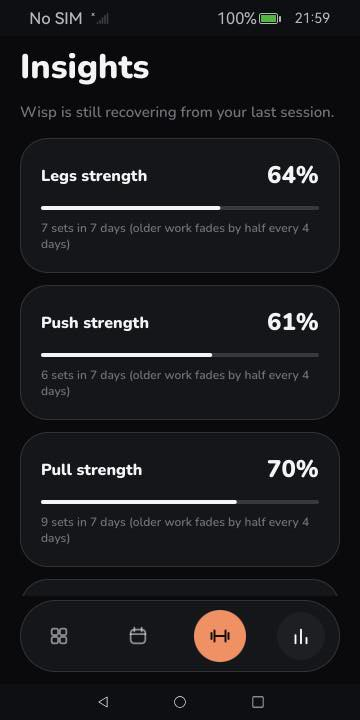
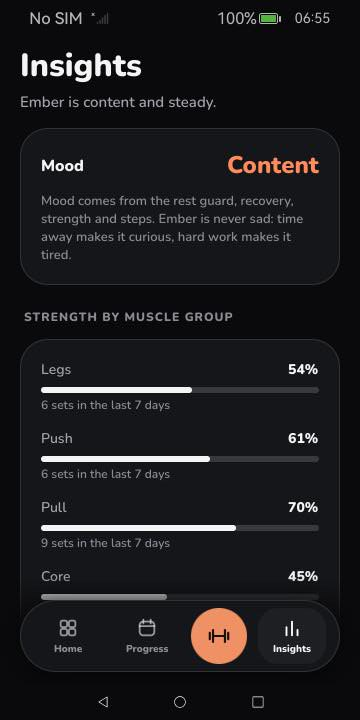
Submission media for 1.3.0: video, deck and form answers
Demo video and presentation rebuilt from current emulator captures (setup with BMI,
loads and records, body weight, collection, 74 tests); repository link filled in.

diff --git a/submission/make_video.py b/submission/make_video.py
@@ -133,24 +133,32 @@ SCENES = [
          say='Meet Wisp Gym. A creature that grows from your real training.'),
     dict(kind='phone', head='Logging reps by hand is broken', sub='Typing in the middle of a set. Streaks that punish a missed day. Wisp Gym flips both.', shot=S('home_curious.jpg'), badge=False, min=6.0,
          say='Most training apps make you log reps by hand, and punish you with streaks. Wisp Gym works the other way: your phone does the counting, and rest is part of the game.'),
-    dict(kind='phone', head='Meet Wisp', sub='Every muscle group you train grows a part of it. Its mood comes from recovery and daily movement.', shot=S('home_thriving.jpg'), min=6.0,
-         say='Wisp lives on your phone. Every muscle group you train grows a part of it, and its mood comes from recovery and daily movement.'),
+    dict(kind='phone', head='Set up in a minute', sub='Pick a starter creature, set your goals, and add height and weight for BMI. Everything stays on the phone.', frames=[S('onb_creature.jpg'), S('onb_body.jpg')], min=7.0,
+         say='Setup takes a minute. Pick your creature, set your goals, and add your height and weight for B M I. It all stays on the phone.'),
+    dict(kind='phone', head='It lives on your training', sub='Every muscle group you train grows a part of it. Its mood comes from recovery and daily movement.', shot=S('home_pumped.jpg'), min=6.0,
+         say='Your creature lives on your phone. Every muscle group you train grows a part of it, and its mood comes from recovery and daily movement.'),
     dict(kind='phone', head='Reps counted from motion alone', sub='Phone in your pocket, any orientation. Walking and sensor noise are filtered out.', frames=SET[:8], min=9.0,
          say='Put the phone in your pocket and start a set. Reps are counted from motion alone, whatever the orientation of the phone. Walking and sensor noise are filtered out.'),
     dict(kind='phone', head='It tells you when to stop', sub='When reps slow down and lose drive, the ring turns orange and Wisp says: rack it. The numbers are on screen.', frames=SET[8:], min=8.0,
          say='As reps slow down and lose drive, the ring fills, and Wisp tells you to rack it, with the numbers to back it up.'),
-    dict(kind='phone', head='Rest is part of the game', sub='Train too often and Wisp asks for a rest day. It never dies and never loses progress.', shot=S('home_rest.jpg'), min=6.0,
-         say='Train too often, and Wisp asks for a rest day. It never dies, and never loses progress.'),
+    dict(kind='phone', head='Loads, volume and records', sub='Log the weight per exercise. The summary shows volume, new personal records and what grew.', frames=[S('load.jpg'), S('summary.jpg')], min=7.0,
+         say='Log the load for each exercise. The summary shows your volume, new personal records, and what grew.'),
+    dict(kind='phone', head='Body weight and BMI', sub='Log weigh-ins, see the trend against your goal, and a BMI gauge with a healthy range.', frames=[S('body.jpg'), S('body_bmi.jpg')], min=7.0,
+         say='Track your body weight with a chart, a goal, and a B M I gauge with your healthy range.'),
+    dict(kind='phone', head='Rest is part of the game', sub='A coach times your rest. Train too often and your creature asks for a rest day. It never dies.', shot=S('coach_rest.jpg'), min=6.0,
+         say='A coach times your rest. Train too often, and your creature asks for a rest day. It never dies, and never loses progress.'),
+    dict(kind='phone', head='Six creatures, fourteen badges', sub='Three starters, three more hatch from real milestones. Eleven expressions each.', shot=S('collection.jpg'), min=6.0,
+         say='Three starters, and three more creatures hatch from real milestones, with fourteen badges to earn.'),
     dict(kind='phone', head='Everything is explainable', sub='Every value comes from your sessions, computed on the phone. No account. No cloud. No AI model.', shot=S('insights.jpg'), min=6.0,
          say='Everything is explainable. Every value comes from your real sessions, computed on the phone.'),
     dict(kind='phone', head='Two weeks, one creature', sub='A simulated fortnight, clearly labelled. Each muscle group grows its own part.', frames=EVO[:5] + [EVO[-1]], min=7.0,
          say='Over two weeks, your training shapes it. This is a simulated fortnight, clearly labelled.'),
-    dict(kind='phone', head='On your home screen', sub='A service widget shows Wisp and your status without opening the app.', shot=S('widget.jpg'), min=5.0,
-         say='A home screen widget shows it without opening the app.'),
+    dict(kind='phone', head='On your home screen', sub='Two service widgets show your creature and status without opening the app.', shot=S('widget.jpg'), min=5.0,
+         say='Two home screen widgets show it without opening the app.'),
     dict(kind='list', head='Built natively for OpenHarmony', min=8.0,
-         items=[('ArkTS + ArkUI', 'API 20 minimum, compiled on API 23'), ('Accelerometer + pedometer', 'SensorServiceKit'), ('Service widget', 'FormExtensionAbility'), ('Local only', 'Preferences, no network permission'),
-                ('22 unit tests', 'incl. 300 randomised sweeps'), ('Runs on OpenHarmony 6.1', 'emulator-verified build')],
-         say='Native ArkTS and ArkUI for OpenHarmony, API twenty and up. Accelerometer, pedometer, service widgets and local storage. Twenty-two unit tests, and it runs on the OpenHarmony six point one emulator.'),
+         items=[('ArkTS + ArkUI', 'API 20 minimum, compiled on API 23'), ('Accelerometer + pedometer', 'SensorServiceKit'), ('Service widgets', 'FormExtensionAbility, 2x2 and 2x4'), ('Local only', 'Preferences, no network permission'),
+                ('74 unit tests', 'incl. 300 randomised sweeps'), ('Runs on OpenHarmony 6.1', 'emulator-verified build')],
+         say='Native ArkTS and ArkUI for OpenHarmony, API twenty and up. Accelerometer, pedometer, service widgets and local storage. Seventy-four unit tests, and it runs on the OpenHarmony six point one emulator.'),
     dict(kind='close', head='Wisp Gym', sub='No cloud. No account. Your data stays on your phone.', min=4.0,
          say='Wisp Gym. Built for HackYeah twenty twenty-six. No cloud, no account, and your data stays on your phone.'),
 ]

diff --git a/submission/make_deck.py b/submission/make_deck.py
@@ -105,12 +105,20 @@ footer(s, n)
 # 3 --- solution
 s = slide(); n += 1
 title(s, 'Your training, made visible', w=7.4)
-phone(s, A('home_thriving.jpg'), 8.6, 1.0, h=5.7)
+phone(s, A('home_pumped.jpg'), 8.6, 1.0, h=5.7)
 bullets(s, 0.7, 2.0, 7.4, [
     ('Reps counted by the phone', 'Accelerometer only, any orientation in the pocket.'),
     ('Knows when to stop', 'Tempo and drive loss trigger a "rack it" cue, with the numbers.'),
     ('Rest is part of the game', 'Over-training makes Wisp ask for a rest day. It never dies.'),
     ('Explainable and private', 'Every value is traceable. Everything stays on the phone.')], size=20, gap=1.15)
+footer(s, n)
+
+# 3b --- new in 1.3
+s = slide(); n += 1
+title(s, 'A complete training companion', 'Setup with BMI, loads and records, body weight, a collection to grow.')
+for i, (f, cap) in enumerate([('onb_body.jpg', 'First-run setup'), ('load.jpg', 'Loads per exercise'), ('body_bmi.jpg', 'Weight goal + BMI'), ('collection.jpg', '6 creatures, 14 badges')]):
+    phone(s, A(f), 0.95 + i * 3.1, 2.25, h=4.3)
+    text(s, 0.95 + i * 3.1, 6.62, 2.15, 0.3, cap, size=13, color=DIM, align=PP_ALIGN.CENTER)
 footer(s, n)
 
 # 4 --- how it works
@@ -152,7 +160,7 @@ footer(s, n)
 s = slide(); n += 1
 title(s, 'What it uses from the platform')
 rows = [('Accelerometer', 'SensorServiceKit', 'live rep detection'), ('Pedometer', 'SensorServiceKit + ACTIVITY_MOTION', 'daily movement for Wisp'),
-        ('Service widget', 'FormExtensionAbility, formProvider', 'creature + status on the home screen'), ('Vibrator', 'SensorServiceKit', 'stop cue, end of rest'),
+        ('Service widgets', 'FormExtensionAbility, formProvider', '2x2 and 2x4 creature + status'), ('Vibrator', 'SensorServiceKit', 'stop cue, end of rest'),
         ('Notifications', 'NotificationKit', 'rest finished'), ('Preferences', '@ohos.data.preferences', 'private, validated local storage'),
         ('Window', 'keepScreenOn, system bars', 'workout screen stays on')]
 for i, (a, b, c) in enumerate(rows):
@@ -166,7 +174,7 @@ footer(s, n)
 # 8 --- quality
 s = slide(); n += 1
 title(s, 'Built to be checked', 'Claims are backed by tests, builds and emulator runs.')
-items = [('22', 'unit tests on the real source files'), ('300', 'randomised synthetic sets: 99.3% exact, 100% within 1 rep'), ('0', 'network permissions, secrets or accounts'), ('API 20', 'minimum; compiled on 23, runs on the OpenHarmony 6.1 emulator')]
+items = [('74', 'unit tests on the real source files'), ('300', 'randomised synthetic sets: 99.3% exact, 100% within 1 rep'), ('0', 'network permissions, secrets or accounts'), ('API 20', 'minimum; compiled on 23, runs on the OpenHarmony 6.1 emulator')]
 for i, (big, small) in enumerate(items):
     x = 0.7 + (i % 2) * 6.1; y = 2.5 + (i // 2) * 2.1
     card(s, x, y, 5.8, 1.85)
@@ -180,7 +188,7 @@ s = slide(); n += 1
 title(s, 'What is real, and what is not', 'We say it plainly.')
 card(s, 0.7, 2.3, 5.9, 4.3); card(s, 6.8, 2.3, 5.8, 4.3)
 text(s, 1.1, 2.6, 5.2, 0.5, 'Verified', size=22, bold=True, color=ACC)
-text(s, 1.1, 3.3, 5.2, 3.2, ['Builds and signs; installs and launches on an OpenHarmony 6.1 emulator', 'All screens, a live-counted set with the stop cue, rest timer', 'Home-screen widget added and updated', 'System permission dialog with a stated reason', '22 unit tests'], size=14, color=TXT, spacing=1.25)
+text(s, 1.1, 3.3, 5.2, 3.2, ['Builds and signs; installs and launches on an OpenHarmony 6.1 emulator', 'All screens, a live-counted set with the stop cue, rest timer', 'Home-screen widget added and updated', 'System permission dialog with a stated reason', '74 unit tests'], size=14, color=TXT, spacing=1.25)
 text(s, 7.2, 2.6, 5.0, 0.5, 'Not yet', size=22, bold=True, color=ACC)
 text(s, 7.2, 3.3, 5.0, 3.2, ['Real accelerometer and pedometer data (emulators have no motion): the demo replays a labelled simulated stream', 'Rep accuracy on real bodies: tested on synthetic traces only', 'Widget tap-through; HarmonyOS device; DevEco emulator'], size=14, color=TXT, spacing=1.25)
 footer(s, n)
@@ -189,8 +197,8 @@ footer(s, n)
 s = slide(); n += 1
 title(s, 'How AI was used', 'The product contains no AI model. The development did.')
 bullets(s, 0.7, 2.4, 11.5, [
-    ('Claude Sonnet 5.5 in Claude Code', 'Ideation, architecture, code, tests, docs, emulator-driven debugging. Documented in AI_WORKFLOW.md.'),
-    ('Validated, not trusted', 'Compiler, 22 tests, on-device screenshots and logs. Bugs found on the emulator are listed with their fixes.'),
+    ('Claude Sonnet 5.5 and Opus 5.5 in Claude Code', 'Ideation, architecture, code, tests, docs, emulator-driven debugging, parallel subagents. Documented in AI_WORKFLOW.md.'),
+    ('Validated, not trusted', 'Compiler, 74 tests, on-device screenshots and logs. Bugs found on the emulator are listed with their fixes.'),
     ('Human decisions', 'Concept, scope (no AI in the product, an app not a feature), non-punitive design, visual direction.')], size=20, gap=1.45)
 footer(s, n)
 

diff --git a/README.md b/README.md
@@ -19,7 +19,7 @@
 
 <p align="center">
   <a href="https://github.com/BOT-K4CP3R/wisp-gym/releases/latest"><b>Download the .hap</b></a> ·
-  <a href="https://github.com/BOT-K4CP3R/wisp-gym/releases/latest/download/wisp-gym-demo.mp4">Demo video (85 s)</a> ·
+  <a href="https://github.com/BOT-K4CP3R/wisp-gym/releases/latest/download/wisp-gym-demo.mp4">Demo video (2 min)</a> ·
   <a href="docs/ARCHITECTURE.md">Architecture</a> ·
   <a href="AI_WORKFLOW.md">AI workflow</a>
 </p>
@@ -148,7 +148,7 @@ from the same source files. OS access is isolated in `platform/`. See [docs/ARCH
 | HarmonyOS device, DevEco emulator | **not tested** |
 
 First launch on the software-emulated Oniro emulator can take about a minute; it is much faster on hardware-accelerated emulators.
-The narrated demo video in the release shows version 1.0; the screenshots in `docs/screenshots` show the current version.
+The narrated demo video in the release shows version 1.3 (set counting and the two-week evolution clips come from earlier emulator captures of the same flows).
 
 ## Submission checklist (Huawei Challenge, HackYeah 2026)
 

diff --git a/submission/FORM_ANSWERS.md b/submission/FORM_ANSWERS.md
@@ -19,10 +19,10 @@ Fields marked **[FILL]** need your input (I cannot know or must not invent them)
 **Team status:** [FILL]  **Current team size:** [FILL]  **Needed skills:** [FILL]
 **Skills comment:** Looking for someone who can record real accelerometer traces of gym exercises (phone or watch, short session) to validate the rep detector, and a designer to review the UI. [Adjust or write "Team complete"]
 
-**Video:** [FILL: YouTube link]. File: `submission/wisp-gym-demo.mp4` (85 s, English narration, built from real emulator captures; Demo mode is labelled on screen).
+**Video:** [FILL: YouTube link]. File: `submission/wisp-gym-demo.mp4` (116 s, English narration, version 1.3, built from real emulator captures; Demo mode is labelled on screen).
 
 **Website:** (optional) repository link.
-**Code Repository:** [FILL: public URL]
+**Code Repository:** https://github.com/BOT-K4CP3R/wisp-gym
 
 **Instructions on how to open project:**
 ```
